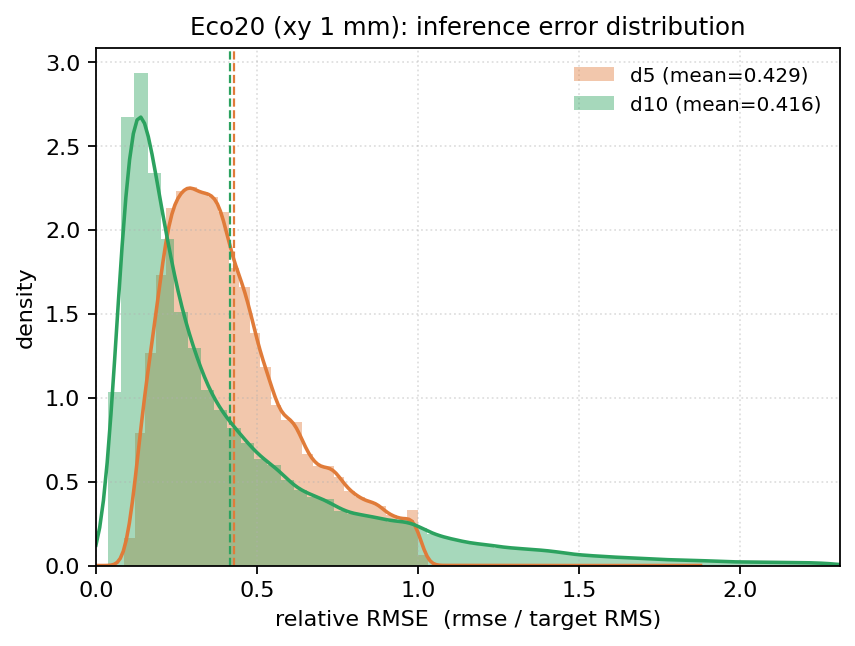
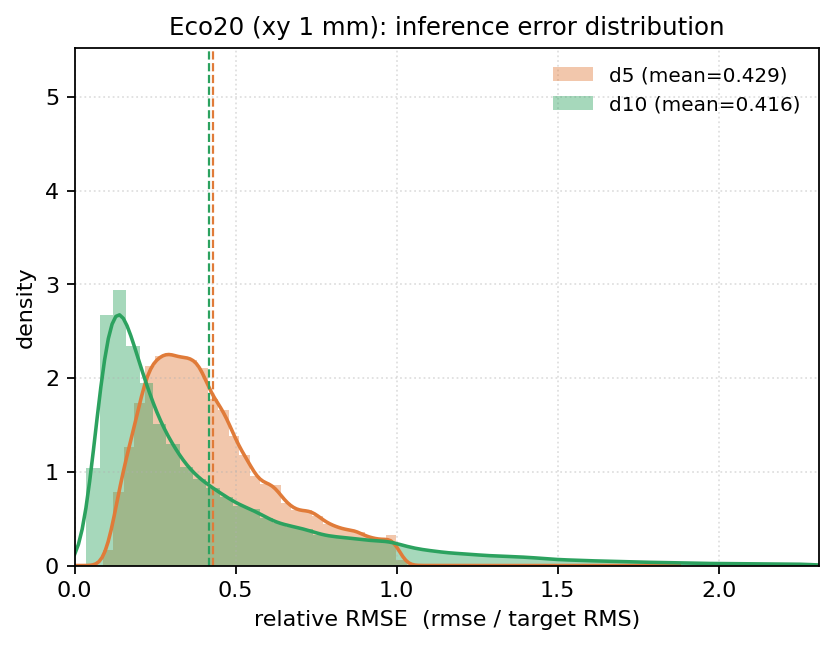
fix: Fig3E shared_axes Y축(density) 통일 + S20 report 값 갱신
- shared-axes E: X축만 통일했던 것 → 전 소재 최대 density(e_ymax)로 Y축도 통일.
  xy1_material E 3소재 + final_xy0p5 E 재생성. axis_limits.json 갱신.
- S20 report: eco50 loc오차 1.322→1.312 갱신 + 재보정이 loc에 둔감한 이유 명시(argmax는 force offset 무관, 효과는 Fig3B).

Claude-Session: https://claude.ai/code/session_01ErRvCMiqdnquEF42VMr6QG

Changed region(s): [[0.0, 0.031, 0.9664, 0.9907], [0.6547, 0.0929, 0.9664, 0.1858]]

diff --git a/history/fig_data/visualizing_scripts/figure_set/generate_fig3_sats.py b/history/fig_data/visualizing_scripts/figure_set/generate_fig3_sats.py
@@ -318,6 +318,19 @@ def panel_error_hist() -> None:
             if v.size >= 10:
                 g_xmax = max(g_xmax, float(np.quantile(v, 0.99)))
     g_xmax = _lim("e_xmax", g_xmax)
+    # 공통 y-max(density): shared 모드에서 세로축도 통일 (렌더와 동일 bins/range 로 산정)
+    g_ydens = 0.0
+    if SHARED_AXES:
+        for s in samples.values():
+            for mask in (s["is_d5"], ~s["is_d5"]):
+                v = s["rel"][mask & np.isfinite(s["rel"])]
+                v = v[(v >= 0) & (v < g_xmax)]
+                if v.size < 10:
+                    continue
+                h, _ = np.histogram(v, bins=55, density=True)
+                k = gaussian_kde(v)(np.linspace(0, v.max(), 200))
+                g_ydens = max(g_ydens, float(h.max()), float(k.max()))
+        g_ydens = _lim("e_ymax", g_ydens)
     for m in MATERIAL_ORDER:
         s = samples[m]
         fig, ax = plt.subplots(figsize=(6.0, 4.2))
@@ -336,6 +349,8 @@ def panel_error_hist() -> None:
             ax.axvline(v.mean(), color=color, ls="--", lw=1)
         if SHARED_AXES and g_xmax > 0:
             ax.set_xlim(0, g_xmax)
+        if SHARED_AXES and g_ydens > 0:
+            ax.set_ylim(0, g_ydens * 1.05)
         ax.set_title(f"{MATERIAL_LABEL[m]} ({TAG}): inference error distribution", fontsize=11)
         ax.set_xlabel("relative RMSE  (rmse / target RMS)")
         ax.set_ylabel("density")

diff --git a/history/fig_data/sats_supplementary/S20_localization/S20_report.md b/history/fig_data/sats_supplementary/S20_localization/S20_report.md
@@ -10,9 +10,11 @@
 | **ecomesh_xy1** | **0.779 mm** | 274k |
 | ecomesh_xy0p5_final | 0.830 mm | 1.93M |
 | eco20_xy1 | 0.953 mm | 224k |
-| eco50_xy1 | 1.322 mm | 259k |
+| eco50_xy1 | 1.312 mm | 259k |
 
 - 논문 보고치(0.73 mm)와 **거의 일치** — 프레임워크·데이터 타당성 방증.
+- **주의(eco50 재보정)**: eco50 d10 test3 로드셀 영점 교정·재학습 후에도 loc오차는 거의 불변(1.322→1.312).
+  위치추정은 **peak 위치(argmax)** 라 force 크기 offset 에 둔감하기 때문. 교정 효과는 **Fig3B 상대오차**(eco50 d10 0.70→0.328)에 나타남.
 - 소재 순위: **ecomesh < eco20 < eco50** → 가설(ecomesh 최상) 재확인(상대오차 지표와 일관).
 - force↑ → 위치오차↓ (SNR 향상, 논문 FigS20B 경향과 동일). 저force(0–0.25N)에서 급증(near-zero 접촉 모호).
 - 감지면 **가장자리에서 오차↑** (수용영역이 가장자리를 완전히 못 덮음, 논문 Discussion과 동일).